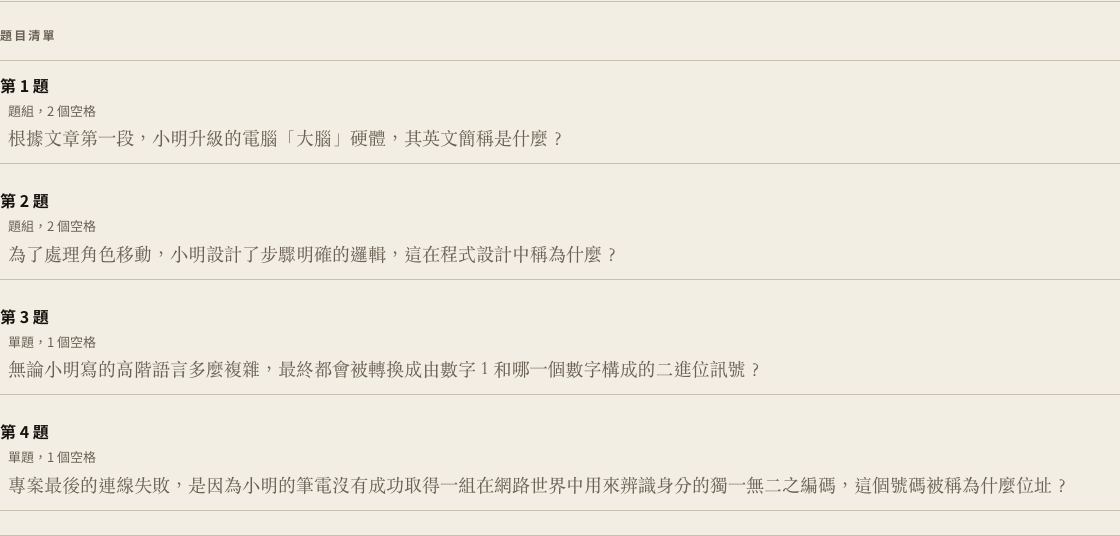
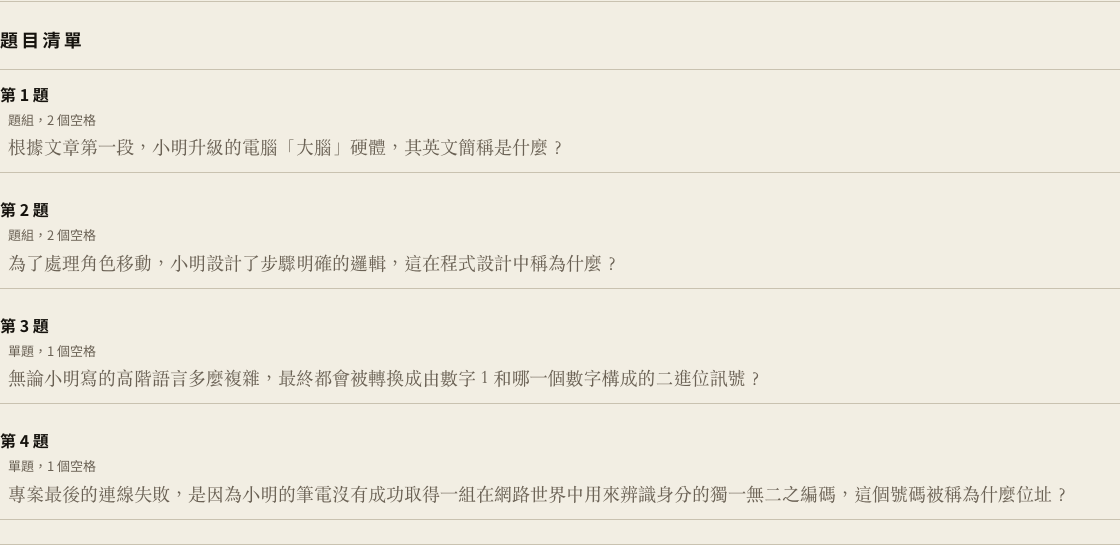
feat(web): 依設計負責人 review 調整介面（階段色統一、方格紙取消、按鈕留白與標題層級）

diff --git a/web/src/features/projector/ProjectorPage.module.css b/web/src/features/projector/ProjectorPage.module.css
@@ -1,26 +1,12 @@
 /*
- * 投影看板＝教室後方的佈告欄：方格紙牆、左欄題號、中欄揭曉、右欄計分。
+ * 投影看板＝教室後方的佈告欄：純紙底、左欄題號、中欄揭曉、右欄計分。
  * 搶答中只放階段、倒數與各組在線狀態，不放任何作答資訊（005 FR-015）。
  */
 .page {
   min-height: var(--page-min-height);
   padding: var(--space-6);
+  /* 純紙色：不做方格紙（2026-11-19 review：方格紙太突兀）。 */
   background-color: var(--color-paper);
-  /* 方格紙：只有這裡用漸層，且只用來畫格線。 */
-  background-image:
-    repeating-linear-gradient(
-      to right,
-      var(--color-grid-line) 0 1px,
-      transparent 1px var(--grid-cell)
-    ),
-    repeating-linear-gradient(
-      to bottom,
-      var(--color-grid-line) 0 1px,
-      transparent 1px var(--grid-cell)
-    );
-  background-position:
-    -1px -1px,
-    -1px -1px;
   color: var(--color-ink);
   font-family: var(--font-family-base);
   line-height: var(--line-height-base);
@@ -141,7 +127,6 @@
   margin: 0;
   padding: 0;
   list-style: none;
-  /* 內容區鋪一層紙，讓方格紙退到外圍（像貼在格線牆上的一張紙）。 */
   background: var(--color-paper);
   border-block-start: var(--border-width-thin) solid var(--color-rule);
 }
@@ -176,11 +161,16 @@
   color: var(--color-ink-muted);
 }
 
-.revealNumberText {
-  font-family: var(--font-family-utility);
-  font-size: var(--font-size-caption);
-  letter-spacing: var(--letter-spacing-utility);
-  color: var(--color-ink-muted);
+/* 只給螢幕閱讀器看的「第 N 題」，畫面上不顯示。 */
+.visuallyHidden {
+  position: absolute;
+  width: 1px;
+  height: 1px;
+  margin: -1px;
+  padding: 0;
+  overflow: hidden;
+  clip-path: inset(50%);
+  white-space: nowrap;
 }
 
 .revealWinner {

diff --git a/web/src/features/projector/ProjectorPage.tsx b/web/src/features/projector/ProjectorPage.tsx
@@ -1,6 +1,7 @@
 import type { Phase, ProjectorSnapshot, Snapshot } from '@classroom/shared';
 import { Link } from 'react-router';
 import { Countdown } from '../shared/Countdown';
+import { phaseStyleClass } from '../shared/phaseStyle';
 import { TeacherLogin } from '../teacher/TeacherLogin';
 import styles from './ProjectorPage.module.css';
 
@@ -56,7 +57,10 @@ export function ProjectorPage({ snapshot }: ProjectorPageProps) {
   return (
     <section className={styles.page} aria-labelledby="projector-title">
       <header className={styles.header}>
-        <h1 id="projector-title" className={styles.title}>
+        <h1
+          id="projector-title"
+          className={`${styles.title} ${phaseStyleClass(projector.phase)}`}
+        >
           {PHASE_LABELS[projector.phase]}
         </h1>
         <p className={styles.rule}>
@@ -104,7 +108,8 @@ export function ProjectorPage({ snapshot }: ProjectorPageProps) {
                     <span className={styles.revealNumberUnit} aria-hidden="true">
                       題
                     </span>
-                    <span className={styles.revealNumberText}>
+                    {/* 螢幕閱讀器用的「第 N 題」：視覺上隱藏，畫面只留大題號。 */}
+                    <span className={styles.visuallyHidden}>
                       {`第 ${entry.questionNumber} 題`}
                     </span>
                   </span>

diff --git a/web/src/features/teacher/PhaseControl.tsx b/web/src/features/teacher/PhaseControl.tsx
@@ -6,6 +6,7 @@ import type {
 } from '@classroom/shared';
 import { useId, useState } from 'react';
 import { sendCommand, type CommandResult } from '../../lib/socket';
+import { phaseStyleClass } from '../shared/phaseStyle';
 import styles from './PhaseControl.module.css';
 
 const PHASE_LABELS: Record<Phase, string> = {
@@ -74,7 +75,7 @@ export function PhaseControl({ snapshot }: PhaseControlProps) {
       <h2 id="phase-control-title" className={styles.title}>
         搶答控制
       </h2>
-      <p className={styles.status}>{`目前階段：${PHASE_LABELS[snapshot.phase]}`}</p>
+      <p className={`${styles.status} ${phaseStyleClass(snapshot.phase)}`}>{`目前階段：${PHASE_LABELS[snapshot.phase]}`}</p>
       {errorMessage !== null && (
         <p className={styles.error} role="alert">
           {errorMessage}
@@ -139,7 +140,7 @@ export function PhaseControl({ snapshot }: PhaseControlProps) {
       </div>
 
       {/* 005（FR-001、AC-005-09）：公平順位只有準備中能切換。 */}
-      <div className={styles.countdownControls}>
+      <div className={styles.fairRankingRow}>
         <label className={styles.checkboxLabel}>
           <input
             type="checkbox"

diff --git a/web/src/features/student/StudentPage.tsx b/web/src/features/student/StudentPage.tsx
@@ -4,6 +4,7 @@ import type { UseSnapshotResult } from '../../lib/useSnapshot';
 import { clearToken } from '../../lib/session';
 import { connectSocket, sendCommand } from '../../lib/socket';
 import { Countdown } from '../shared/Countdown';
+import { phaseStyleClass } from '../shared/phaseStyle';
 import { AnswerArea } from './AnswerArea';
 import { GroupPicker } from './GroupPicker';
 import { StudentResults } from './StudentResults';
@@ -65,11 +66,7 @@ export function StudentPage({ snapshot, sessionInvalid }: StudentPageProps) {
           目前組別：<strong>{myGroup?.name ?? '未知組別'}</strong>
         </p>
         {/* 文字維持單一節點，螢幕閱讀器與測試讀到的都是「目前階段：搶答中」。 */}
-        <p
-          className={
-            snapshot.phase === 'open' ? `${styles.status} ${styles.statusOpen}` : styles.status
-          }
-        >
+        <p className={`${styles.status} ${phaseStyleClass(snapshot.phase)}`}>
           {`目前階段：${PHASE_LABELS[snapshot.phase]}`}
         </p>
       </header>

diff --git a/web/src/styles/tokens.css b/web/src/styles/tokens.css
@@ -14,10 +14,17 @@
   --color-ink: #16130e;
   --color-ink-muted: #6a6154;
   --color-rule: #c9c2b0;
-  /* 方格紙的格線比一般細線更淡，否則會蓋過內容。 */
-  --color-grid-line: #ddd6c5;
   --color-vermilion: #bf3b2b;
   --color-indigo: #1f3a93;
+
+  /*
+   * 階段語意色（design/DESIGN.md §3 的階段對照表）：
+   * 準備中＝墨灰、搶答中＝朱紅（此刻正在發生）、已結束＝藍（已完成）。
+   * 三個畫面（老師端、學生端、投影看板）都用這組語意色。
+   */
+  --phase-preparing: var(--color-ink-muted);
+  --phase-open: var(--color-vermilion);
+  --phase-closed: var(--color-indigo);
 
   /* 舊名稱保留對應，讓各模組不必同時改寫 */
   --color-background: var(--color-paper);
@@ -69,7 +76,6 @@
   --sheet-max-width: 46rem;
   /* 投影看板 */
   --board-max-width: 100rem;
-  --grid-cell: 3rem;
 
   /* 線與角：方角、無陰影是硬規定 */
   --border-width-thin: 1px;

diff --git a/web/src/features/teacher/GroupManager.module.css b/web/src/features/teacher/GroupManager.module.css
@@ -8,9 +8,9 @@
 .title {
   margin: var(--space-0);
   font-family: var(--font-family-utility);
-  font-size: var(--font-size-caption);
+  font-size: var(--font-size-large);
   letter-spacing: var(--letter-spacing-utility);
-  color: var(--color-ink-muted);
+  color: var(--color-ink);
 }
 
 .explanation,
@@ -61,8 +61,9 @@
   border-radius: 0;
 }
 
+/* 次要動作：四邊留白與主要動作一致（2026-11-19 review）。 */
 .button {
-  padding: var(--space-2) var(--space-5);
+  padding: var(--space-3) var(--space-6);
   color: var(--color-ink);
   background: transparent;
   border: var(--border-width-thin) solid var(--color-ink);
@@ -107,4 +108,10 @@
 .presence {
   color: var(--color-ink-muted);
   font-size: var(--font-size-small);
+}
+
+/* 在線＝此刻有人在線，用朱紅（與投影看板一致，2026-11-19 review）。 */
+.presenceOnline {
+  color: var(--color-vermilion);
+  font-weight: 600;
 }

diff --git a/web/src/features/teacher/QuestionImport.module.css b/web/src/features/teacher/QuestionImport.module.css
@@ -17,17 +17,17 @@
 
 .title {
   font-family: var(--font-family-utility);
-  font-size: var(--font-size-caption);
+  font-size: var(--font-size-large);
   letter-spacing: var(--letter-spacing-utility);
-  color: var(--color-ink-muted);
+  color: var(--color-ink);
 }
 
 .summaryTitle,
 .warningsTitle {
   font-family: var(--font-family-utility);
-  font-size: var(--font-size-caption);
+  font-size: var(--font-size-large);
   letter-spacing: var(--letter-spacing-utility);
-  color: var(--color-ink-muted);
+  color: var(--color-ink);
 }
 
 .error {
@@ -84,8 +84,9 @@
   font-size: var(--font-size-small);
 }
 
+/* 次要動作：四邊留白與主要動作一致（2026-11-19 review）。 */
 .button {
-  padding: var(--space-2) var(--space-5);
+  padding: var(--space-3) var(--space-6);
   color: var(--color-ink);
   background: transparent;
   border: var(--border-width-thin) solid var(--color-ink);

diff --git a/web/src/features/teacher/PhaseControl.module.css b/web/src/features/teacher/PhaseControl.module.css
@@ -8,9 +8,9 @@
 .title {
   margin: var(--space-0);
   font-family: var(--font-family-utility);
-  font-size: var(--font-size-caption);
+  font-size: var(--font-size-large);
   letter-spacing: var(--letter-spacing-utility);
-  color: var(--color-ink-muted);
+  color: var(--color-ink);
 }
 
 .status,
@@ -66,6 +66,14 @@
   gap: var(--space-4);
 }
 
+/* 公平順位那一列：勾選框與右側說明垂直置中對齊（2026-11-19 review）。 */
+.fairRankingRow {
+  display: flex;
+  flex-wrap: wrap;
+  align-items: center;
+  gap: var(--space-2) var(--space-4);
+}
+
 .field {
   display: grid;
   gap: var(--space-1);
@@ -76,6 +84,13 @@
   align-items: center;
   gap: var(--space-2);
   font-size: var(--font-size-small);
+  line-height: 1.4;
+}
+
+.checkboxLabel input[type='checkbox'] {
+  width: 1.05rem;
+  height: 1.05rem;
+  margin: 0;
 }
 
 .label {

diff --git a/web/src/features/teacher/AnswerBoard.module.css b/web/src/features/teacher/AnswerBoard.module.css
@@ -15,16 +15,16 @@
 
 .title {
   font-family: var(--font-family-utility);
-  font-size: var(--font-size-caption);
+  font-size: var(--font-size-large);
   letter-spacing: var(--letter-spacing-utility);
-  color: var(--color-ink-muted);
+  color: var(--color-ink);
 }
 
 .progressTitle {
   font-family: var(--font-family-utility);
-  font-size: var(--font-size-caption);
+  font-size: var(--font-size-large);
   letter-spacing: var(--letter-spacing-utility);
-  color: var(--color-ink-muted);
+  color: var(--color-ink);
 }
 
 .description,
@@ -102,7 +102,7 @@
 
 .voidButton {
   margin-block-start: var(--space-2);
-  padding: var(--space-1) var(--space-3);
+  padding: var(--space-2) var(--space-4);
   color: var(--color-ink);
   font-size: var(--font-size-small);
   background: transparent;

diff --git a/web/src/features/teacher/GroupManager.tsx b/web/src/features/teacher/GroupManager.tsx
@@ -140,7 +140,13 @@ export function GroupManager({ snapshot }: GroupManagerProps) {
               <li className={styles.group} key={group.id}>
                 <div className={styles.groupHeader}>
                   <strong>{group.name}</strong>
-                  <span className={styles.presence}>
+                  <span
+                    className={
+                      onlineCount > 0
+                        ? `${styles.presence} ${styles.presenceOnline}`
+                        : styles.presence
+                    }
+                  >
                     {onlineCount > 0 ? `在線 ${onlineCount} 人` : '離線'}
                   </span>
                 </div>

diff --git a/web/src/features/shared/phaseStyle.ts b/web/src/features/shared/phaseStyle.ts
@@ -1,0 +1,17 @@
+import type { Phase } from '@classroom/shared';
+import styles from './phaseStyle.module.css';
+
+/**
+ * 依階段回傳對應的語意色 class（design/DESIGN.md §3 的階段對照表）：
+ * 準備中＝墨灰、搶答中＝朱紅、已結束＝藍。
+ * 老師端、學生端、投影看板都用這裡，避免三個畫面各寫一套。
+ */
+export function phaseStyleClass(phase: Phase): string {
+  if (phase === 'open') {
+    return styles.open ?? '';
+  }
+  if (phase === 'closed') {
+    return styles.closed ?? '';
+  }
+  return styles.preparing ?? '';
+}

diff --git a/web/src/features/shared/phaseStyle.module.css b/web/src/features/shared/phaseStyle.module.css
@@ -1,0 +1,15 @@
+/*
+ * 階段語意色（design/DESIGN.md §3）：準備中＝墨灰／搶答中＝朱紅／已結束＝藍。
+ * 老師端、學生端、投影看板共用這組 class，保證三個畫面的階段顏色一致。
+ */
+.preparing {
+  color: var(--phase-preparing);
+}
+
+.open {
+  color: var(--phase-open);
+}
+
+.closed {
+  color: var(--phase-closed);
+}
